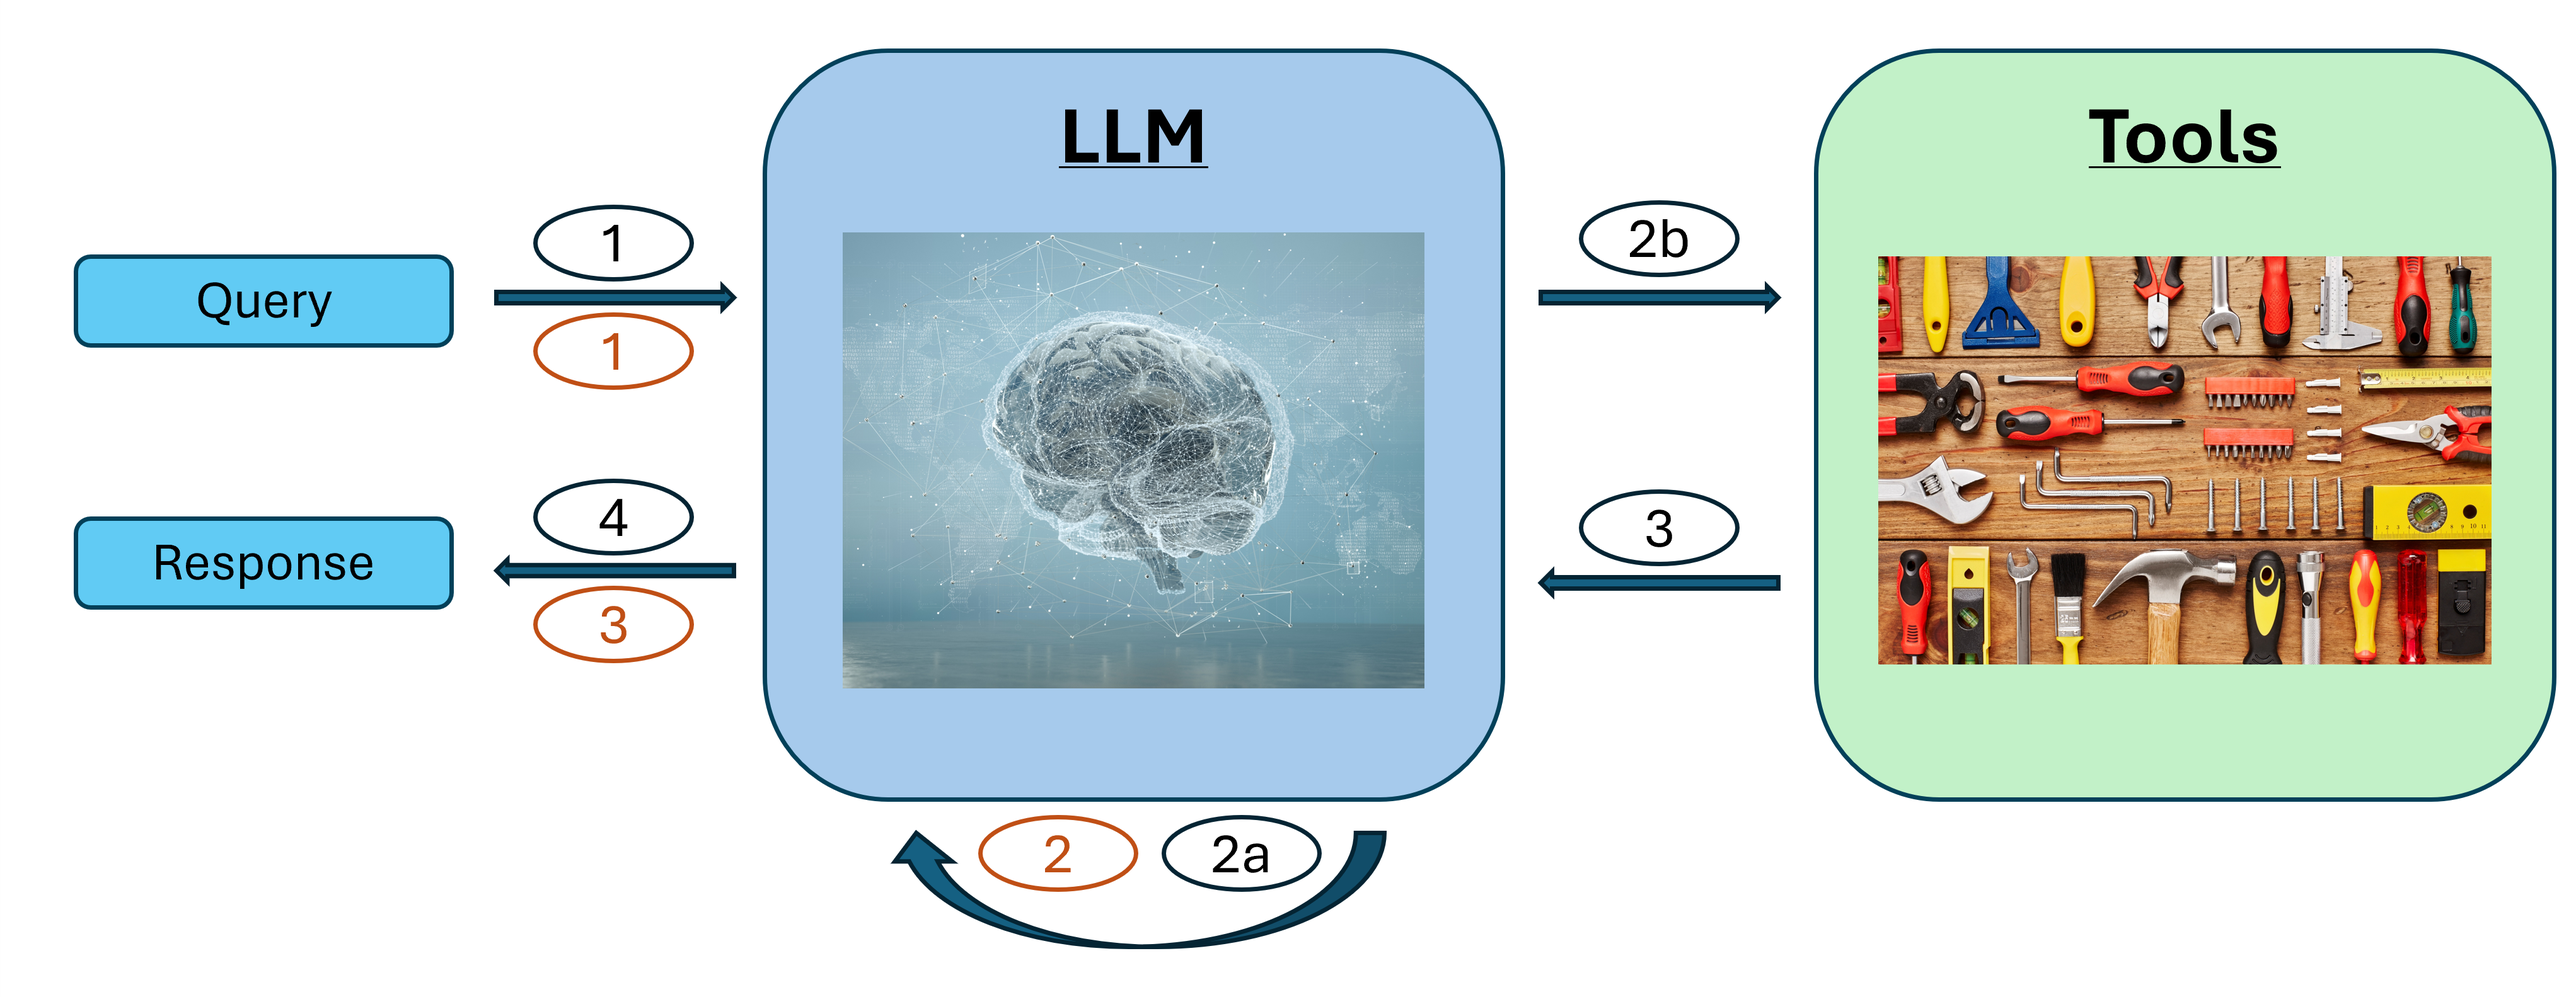
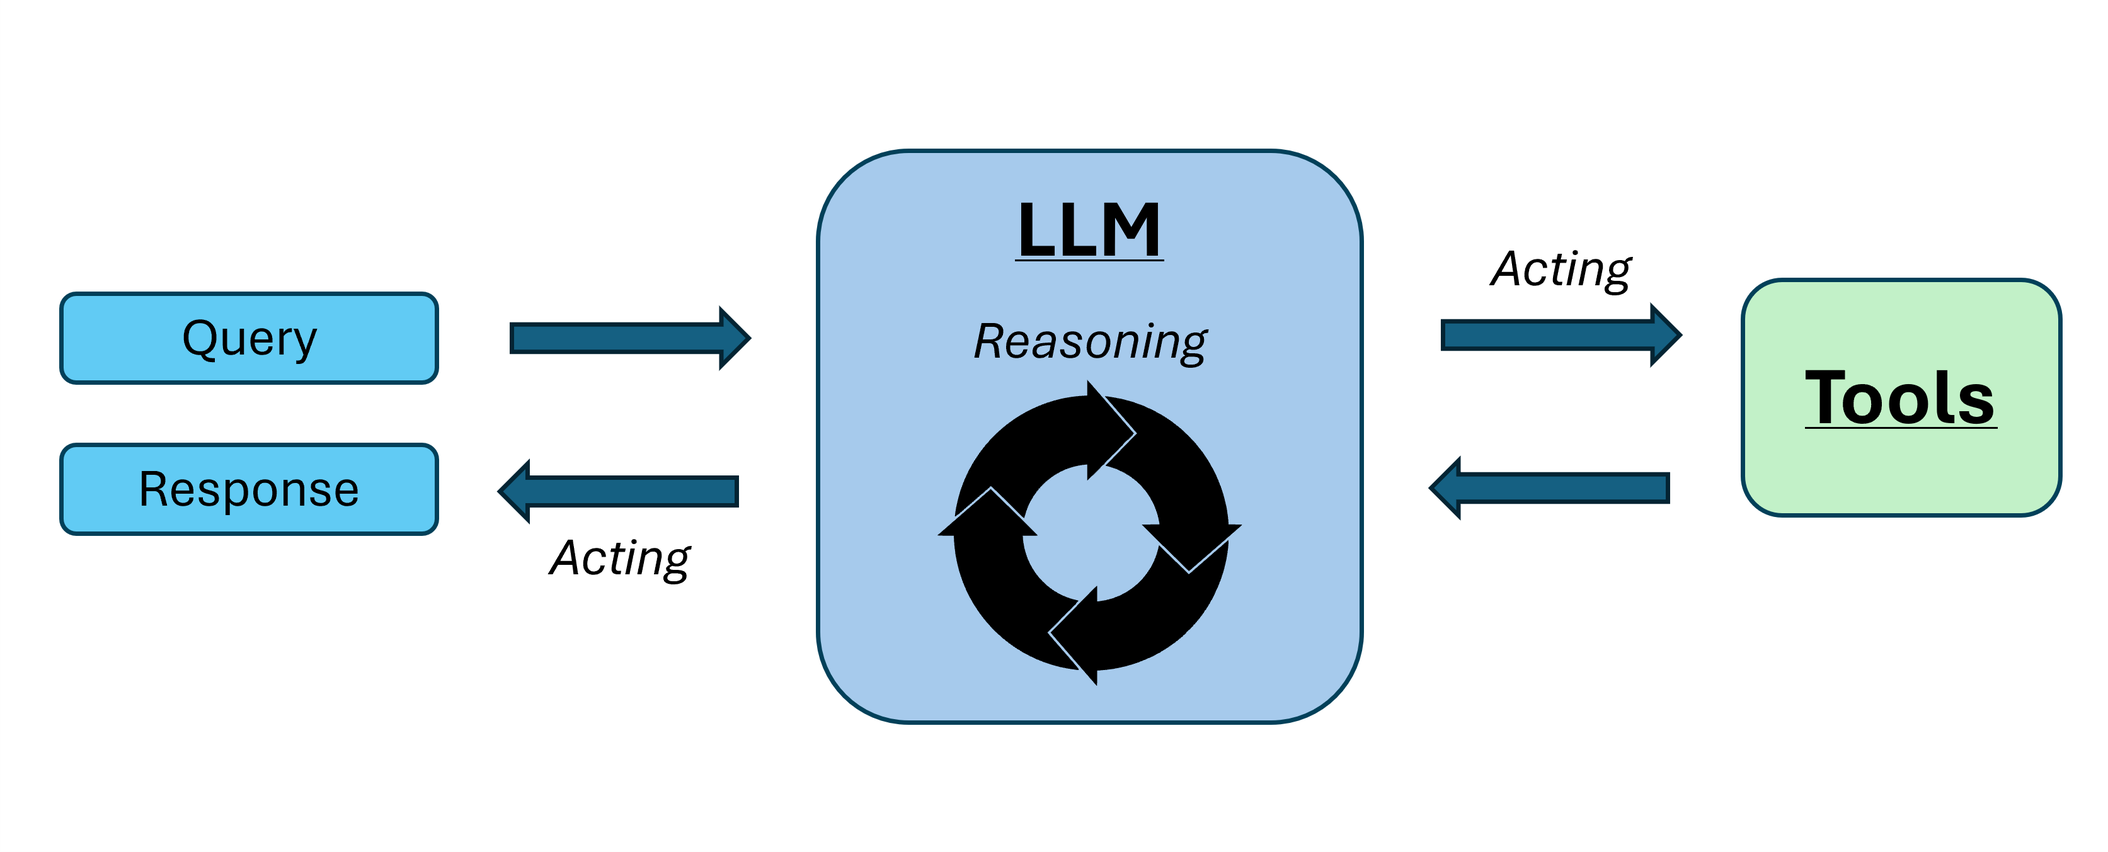
Modified based on feedback

diff --git a/lessons/07_AI_agents/02_minimal_agent.md b/lessons/07_AI_agents/02_minimal_agent.md
@@ -3,9 +3,7 @@
 As you've seen in the intro lesson, we will be looking at ReAct agents in our lessons. The following image illustrates the ReAct loop that these types of agents employ to generate responses to queries.
 ![React loop](./resources/react_loop.png)
 
-Two loops are shown here:
-- The orange loop with 3 steps, that does not involve external tool use. In this case, the LLM (can be RAG enabled) reasons that it does not need to run any external tools to answer the query.
-- The black loop with 4 steps, where the LLM reasons that it must use one or more tools to generate an accurate response to the query. Steps 2a and 2b can alternate as many times as needed.
+The ReAct framework involves the reasoning step and the acting step. In the reasoning step, the LLM uses its internal reasoning capability to determine whether external tools are needed to answer the query. If it decides that an external tool is needed, a tool call is output that requests the result of a given tool. The LLM can then use this result to generate the response. If a tool call is not necessary, it will directly generate the response. This loop can continue as long as needed till the agent determines the task to be completed.
 
 To demonstrate how tool usage works in agentic frameworks, we will go through a simple example in this lesson. Before we get started, here are a few important things to note.
 - LLMs cannot run code.
@@ -133,14 +131,14 @@ Now that we have the tool schema ready to pass to the model, we will now impleme
 
 ### Implementing the ReAct Agent
 
-To emulate the ReAct loop for our agent, we develop the `run_agent` function shown below. The following steps are involved in the function:
-1. You send a chat request (system + user messages + tools) to the API. You tell the model what tools are available using the `tools` parameter in the API call. This is step 1 in both the black and orange loops in the image at the beginning of the lesson.
-2. The model looks at the conversation and decides (step 2 in the orange loop and 2a in the black loop) to either:
-   - answer directly (step 3 in the orange loop), or
-   - return a special `tool_calls` field. A `tool_call` is the model saying: "Please run this function and tell me the result." This is step 2b in the black loop.
-3. Your Python code sees the `tool_call`, runs the local Python function, and gets a result.
-4. You send that result back to the model as a new message with `role: tool`. This is step 3 in the black loop.
-5. You call the model again with the updated messages so it can see the tool result and give a final answer (step 4 in the black loop).
+To emulate the ReAct loop for our agent, we develop the `run_agent` function shown below. It is helpful to view these steps in comparison with the image at the beginning of the lesson. The following steps are involved in the function:
+1. You send a chat request (system + user messages + tools) to the API. You tell the model what tools are available using the `tools` parameter in the API call.
+2. The model looks at the conversation and decides (the reasoning step in the image) to either:
+   - answer directly, or
+   - return a special `tool_calls` field. A `tool_call` is the model saying: "Please run this function and tell me the result."
+3. Your Python code sees the `tool_call`, runs the local Python function, and gets a result. This is the acting step.
+4. You send that result back to the model as a new message with `role: tool`.
+5. You call the model again with the updated messages so it can see the tool result and give a final answer.
 
 ```python
 import json
